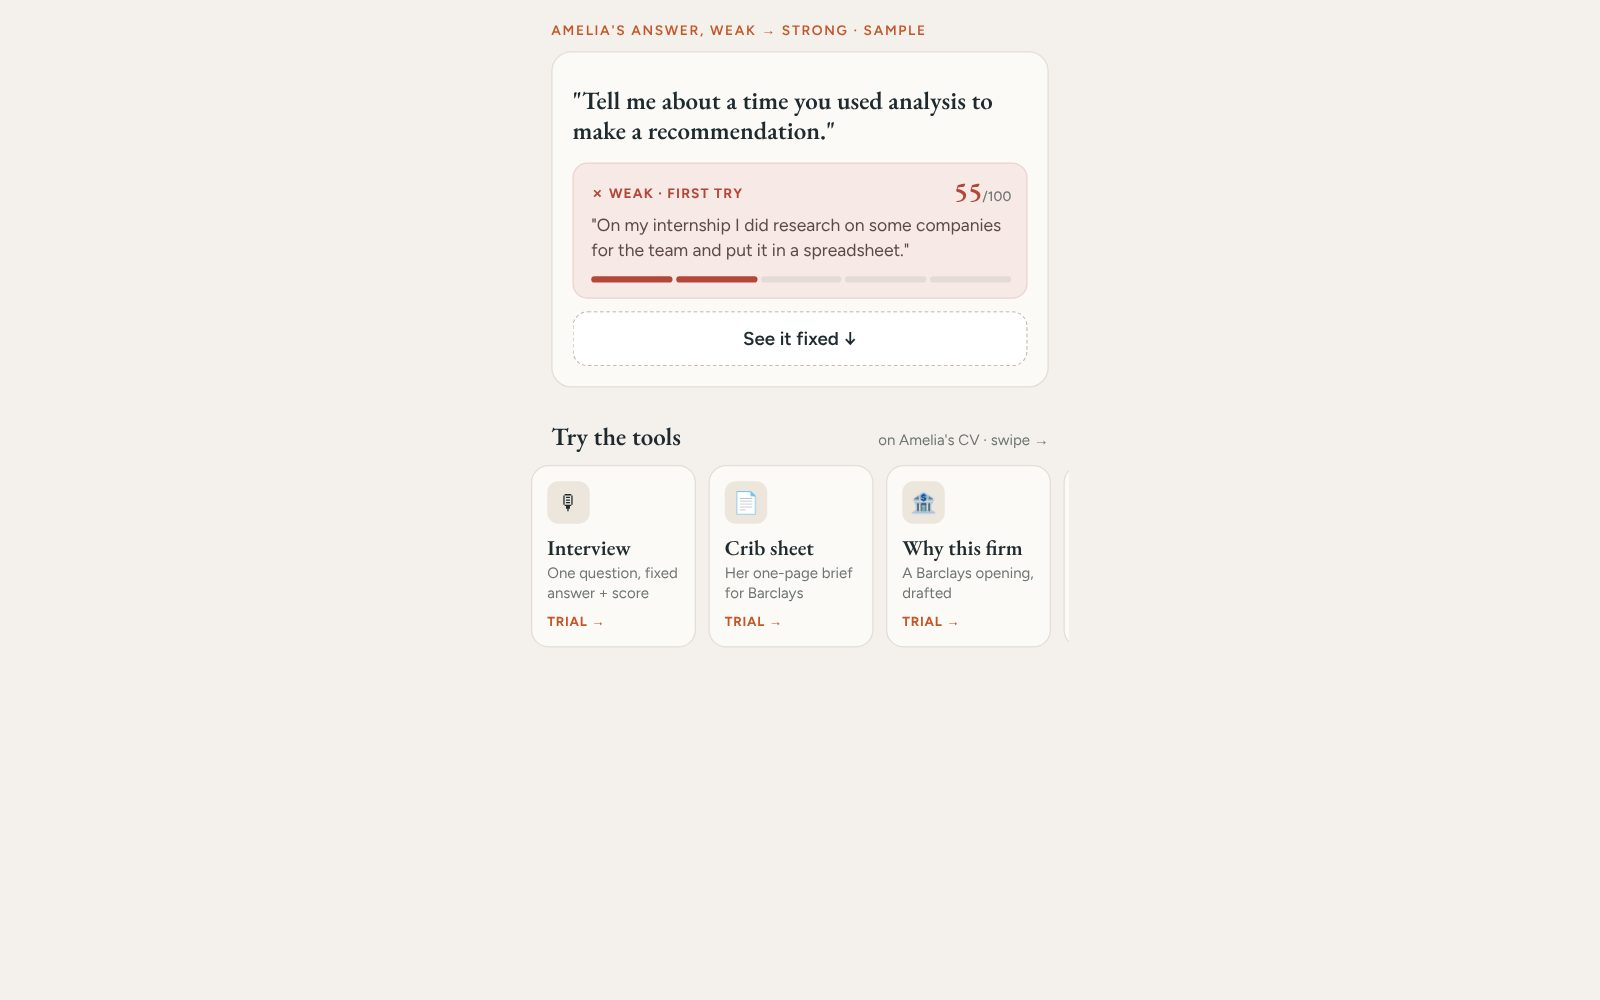
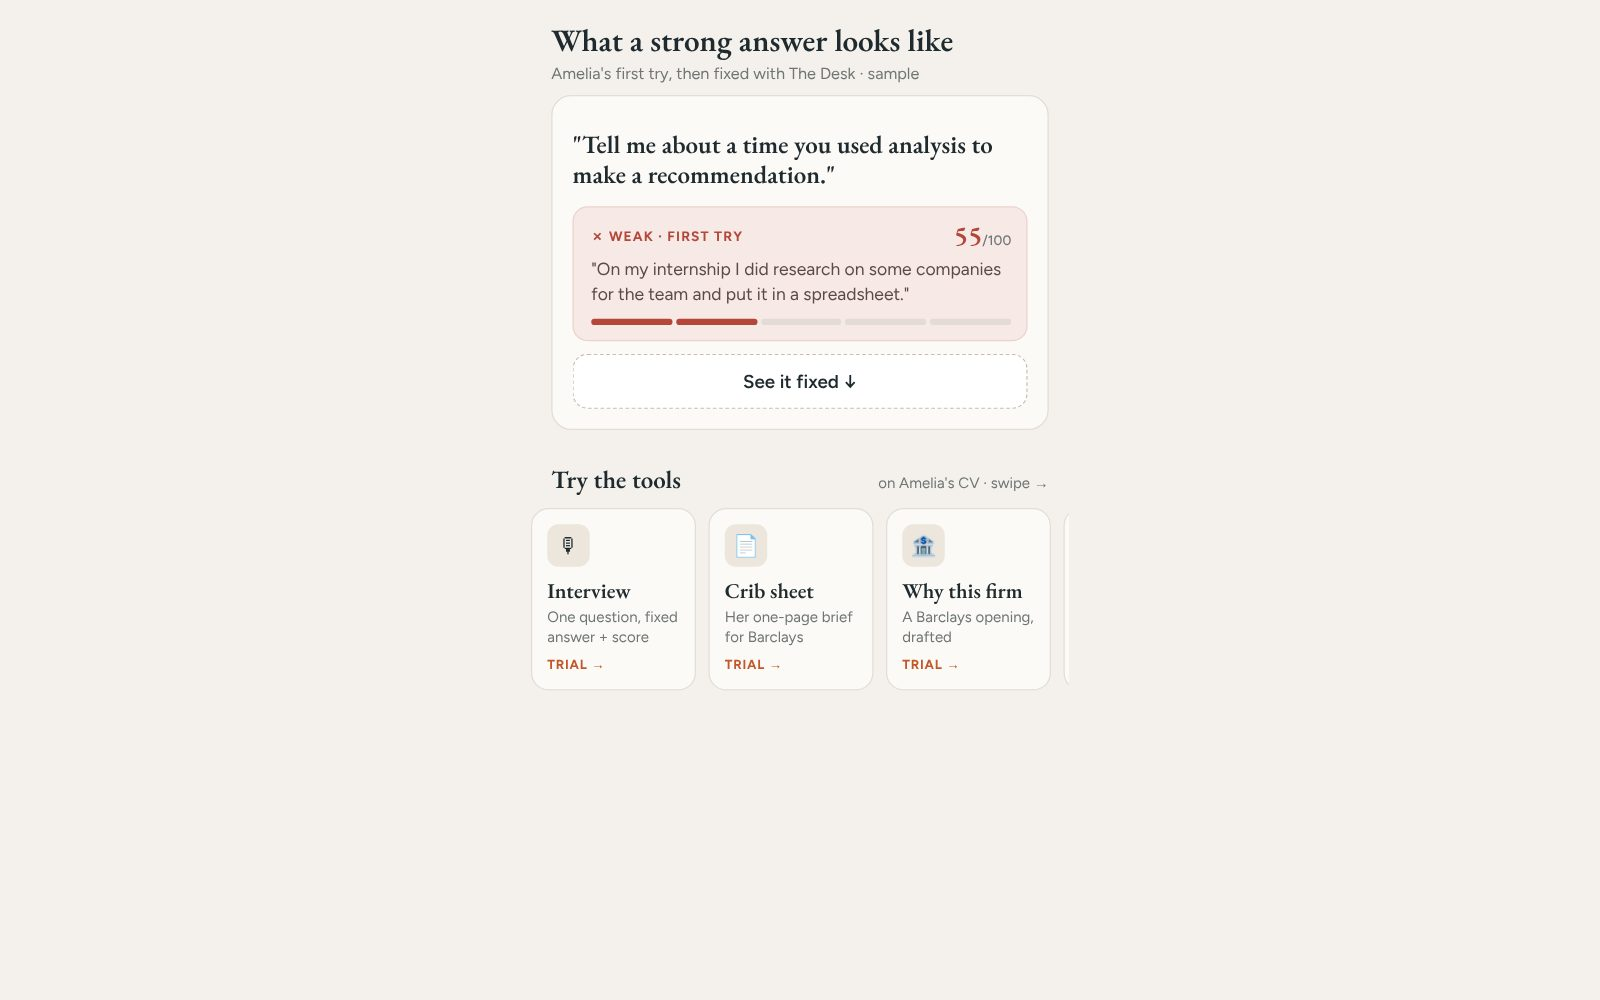
Weak-strong: section heading
Claude-Session: https://claude.ai/code/session_014HX912Q8GYBLs9Jx181D89

diff --git a/design/weak-strong-card-mock.html b/design/weak-strong-card-mock.html
@@ -44,7 +44,7 @@ mark{background:#cfe6d7;color:inherit;border-radius:3px;padding:0 2px}
 .card.open .fix,.card.open .strong{animation:in .5s ease}
 @keyframes in{from{opacity:0;transform:translateY(-6px)}to{opacity:1}}
 </style></head><body>
-<div class="k">Amelia's answer, weak → strong · Sample</div>
+<h2 style="font-family:'EB Garamond',serif;font-weight:600;font-size:25px;line-height:1.15">What a strong answer looks like</h2><div style="font-size:13px;color:var(--muted);margin-top:4px">Amelia's first try, then fixed with The Desk · sample</div>
 <div class="card">
   <div class="q">"Tell me about a time you used analysis to make a recommendation."</div>
 

diff --git a/CODEX-ALL-24NOV.md b/CODEX-ALL-24NOV.md
@@ -187,7 +187,7 @@
     - Under the sample: "That's a finished sheet. **Build yours** →" (uses their CV if assessed, otherwise opens the "Available after your free assessment" sheet).
 
 13. **Explore dashboard (phone): a "weak → strong" answer graphic replaces question of the day.** Mock: `design/weak-strong-card-mock.html` / `design/weak-strong-card-phone.jpg`.
-    - Label "AMELIA'S ANSWER, WEAK → STRONG · SAMPLE" + the showcase question.
+    - **Section heading** (EB Garamond, about 25px): "**What a strong answer looks like**", with a sub-line (13px, muted): "Amelia's first try, then fixed with The Desk · sample". Then the card with the showcase question.
     - **Weak box** (soft red): "✗ Weak · first try", score, her weak answer line, a 5-segment strength meter (2 filled, red).
     - **Connector:** a red→green arrow with 3 chips naming what changed ("+ the numbers", "+ what *you* decided", "+ why"), taken from the fix's change list.
     - **Strong box** (soft green): "✓ Strong · after the fix", score, the fixed line with the added facts highlighted, meter (4 filled, green).
